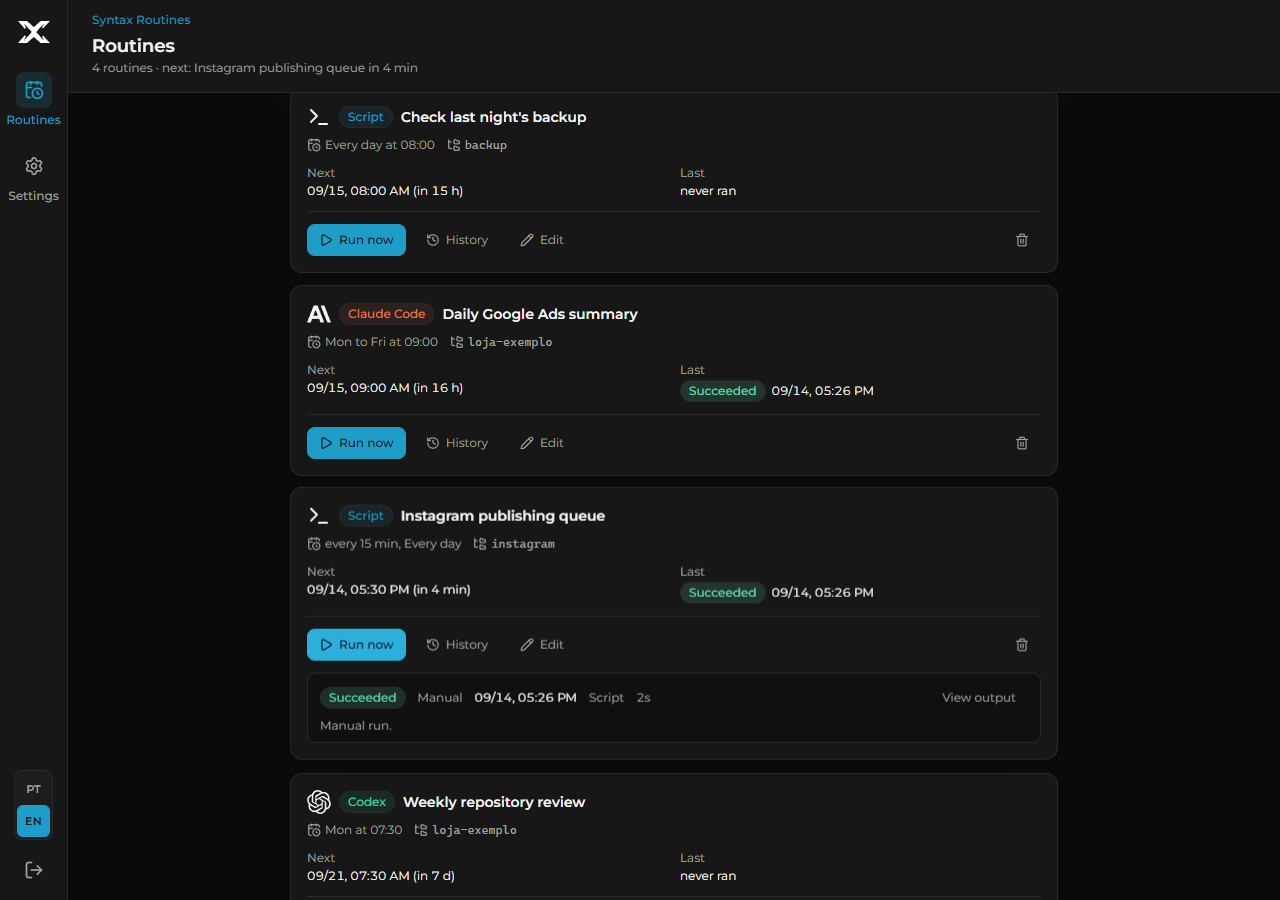
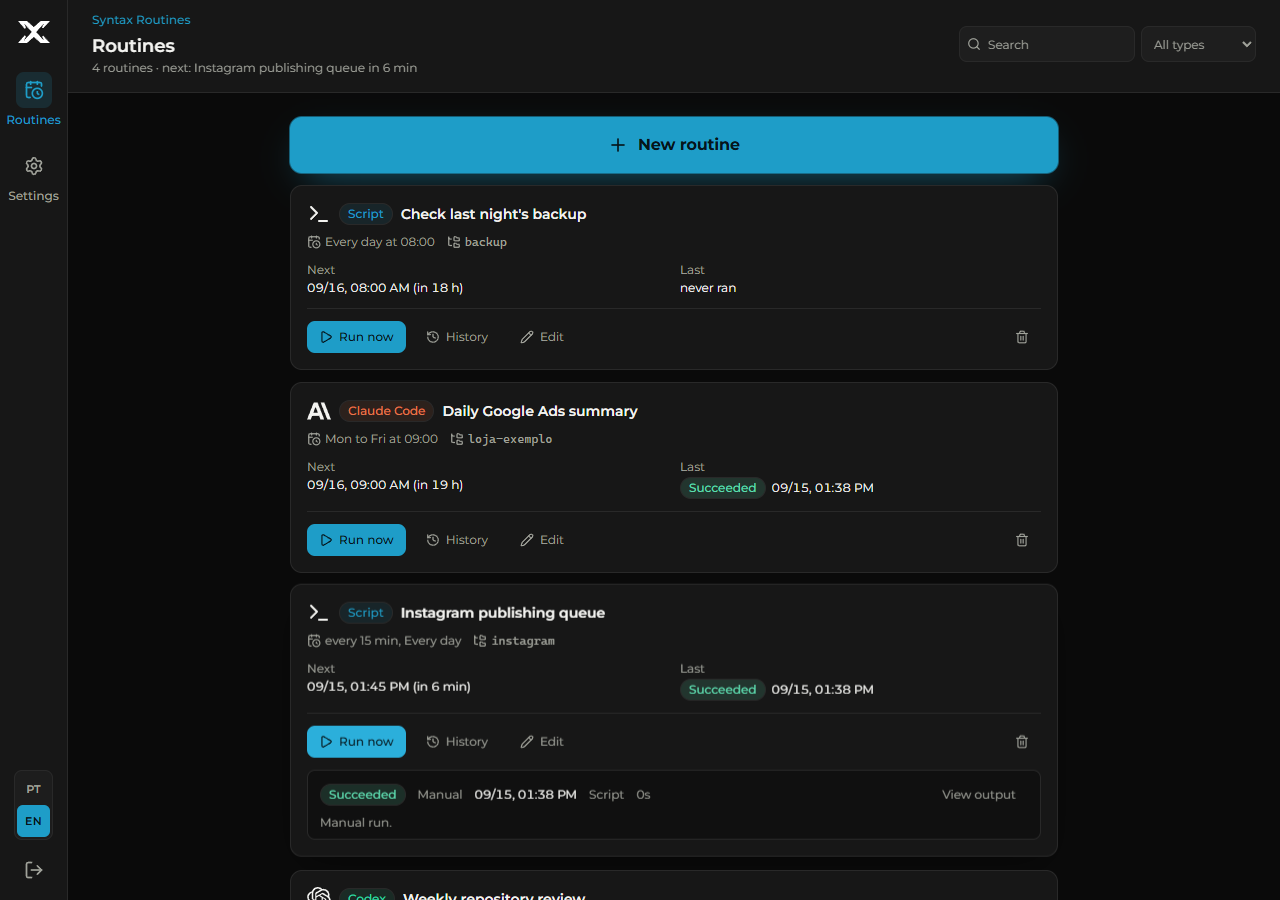
Search and type filter on Routines; retry failure alerts for up to 24 h
The Routines header gets a discreet search by name (accent and case
insensitive) and a filter by Claude Code, Codex or Script, with the
shown/total count and a Clear filter button. Covered by the e2e smoke test.

A failure alert that cannot be sent is now retried n² minutes after the
failure (1, 4, 9... up to 22.8 h) instead of three times in five minutes,
so an internet outage of a few hours delays the alert instead of losing
it. The "server not found" reason also says to check the internet.

diff --git a/client/src/pages/RoutinesPage.tsx b/client/src/pages/RoutinesPage.tsx
@@ -1,5 +1,6 @@
 import { useCallback, useEffect, useState } from "react";
-import { AlertTriangle, CalendarClock, FolderTree, History as HistoryIcon, Pencil, Play, Plus, Square, Trash2 } from "lucide-react";
+import type { ChangeEvent } from "react";
+import { AlertTriangle, CalendarClock, FolderTree, History as HistoryIcon, Pencil, Play, Plus, Search, Square, Trash2 } from "lucide-react";
 
 import { ProviderMark } from "../components/Logo";
 import { PageHeader } from "../components/PageHeader";
@@ -15,6 +16,23 @@ import type { AgentKind, ExecutorKind, RoutineDto, RunDto, SettingsResponse, Sta
 const IDLE_POLL_MS = 5000;
 const ACTIVE_POLL_MS = 2000;
 const AGENT_TONE: Record<ExecutorKind, string> = { CLAUDE: "claude", CODEX: "codex", SCRIPT: "script" };
+const KIND_OPTIONS: ExecutorKind[] = ["CLAUDE", "CODEX", "SCRIPT"];
+
+type KindFilter = ExecutorKind | "";
+
+/** Busca sem acento nem caixa: "instagram" acha "Instagram SyntaxLab: fila", "conferencia" acha "Conferência". */
+function fold(text: string): string {
+  return text
+    .normalize("NFD")
+    .replace(/[\u0300-\u036f]/g, "")
+    .toLowerCase();
+}
+
+export function matchesFilter(routine: Pick<RoutineDto, "name" | "agentKind">, query: string, kind: KindFilter): boolean {
+  if (kind && routine.agentKind !== kind) return false;
+  const needle = fold(query.trim());
+  return needle === "" || fold(routine.name).includes(needle);
+}
 
 export function RoutinesPage({ onOpenSettings }: { onOpenSettings: () => void }) {
   const { m, language } = useI18n();
@@ -26,6 +44,8 @@ export function RoutinesPage({ onOpenSettings }: { onOpenSettings: () => void })
   const [actionError, setActionError] = useState<string | null>(null);
   const [editing, setEditing] = useState<{ routine: RoutineDto | null } | null>(null);
   const [outputRunId, setOutputRunId] = useState<number | null>(null);
+  const [query, setQuery] = useState("");
+  const [kind, setKind] = useState<KindFilter>("");
 
   const load = useCallback(async () => {
     try {
@@ -87,9 +107,23 @@ export function RoutinesPage({ onOpenSettings }: { onOpenSettings: () => void })
     : [];
   const hasRoot = Boolean(meta?.settings.rootDirectory);
 
+  // O filtro so muda o que aparece: contagem do subtitulo, polling e proxima execucao seguem olhando todas.
+  const isFiltering = query.trim() !== "" || kind !== "";
+  const visible = routines?.filter((routine) => matchesFilter(routine, query, kind)) ?? [];
+  function clearFilter() {
+    setQuery("");
+    setKind("");
+  }
+
   return (
     <div className="flex h-full flex-col">
-      <PageHeader title={m.navRoutines} subtitle={subtitle} />
+      <PageHeader
+        title={m.navRoutines}
+        subtitle={subtitle}
+        actions={
+          routines !== null && routines.length > 0 ? <RoutineFilter query={query} kind={kind} onQuery={setQuery} onKind={setKind} /> : undefined
+        }
+      />
 
       <div className="flex-1 overflow-y-auto p-3 pb-24 md:p-6 md:pb-6">
         <div className="mx-auto max-w-3xl space-y-3">
@@ -139,7 +173,15 @@ export function RoutinesPage({ onOpenSettings }: { onOpenSettings: () => void })
             <EmptyState hasRoot={hasRoot} onOpenSettings={onOpenSettings} />
           ) : (
             <div className="stagger space-y-3">
-              {routines.map((routine) => (
+              {isFiltering && (
+                <p role="status" className="flex items-center justify-between gap-2 px-1 text-xs text-[var(--color-fg-subtle)]">
+                  <span>{m.filterCount(visible.length, routines.length)}</span>
+                  <Button size="sm" variant="ghost" onClick={clearFilter}>
+                    {m.clearFilter}
+                  </Button>
+                </p>
+              )}
+              {visible.map((routine) => (
                 <div key={routine.id}>
                   <RoutineCard
                     routine={routine}
@@ -172,6 +214,52 @@ export function RoutinesPage({ onOpenSettings }: { onOpenSettings: () => void })
         />
       )}
       <RunOutputModal runId={outputRunId} onClose={() => setOutputRunId(null)} />
+    </div>
+  );
+}
+
+/** Busca por nome e tipo, no canto do cabecalho: discreto, some quando nao ha rotina para filtrar. */
+function RoutineFilter({
+  query,
+  kind,
+  onQuery,
+  onKind
+}: {
+  query: string;
+  kind: KindFilter;
+  onQuery: (value: string) => void;
+  onKind: (value: KindFilter) => void;
+}) {
+  const { m } = useI18n();
+  const f = useFormat();
+  const field =
+    "h-8 rounded-[var(--radius-md)] border border-[var(--color-border)] bg-[var(--color-surface-2)]/70 text-xs text-[var(--color-fg)] outline-none focus:border-[var(--color-primary)]";
+  return (
+    <div className="flex items-center gap-1.5">
+      <label className="relative">
+        <span className="sr-only">{m.searchRoutines}</span>
+        <Search aria-hidden className="pointer-events-none absolute left-2 top-1/2 size-3.5 -translate-y-1/2 text-[var(--color-fg-subtle)]" />
+        <input
+          type="search"
+          value={query}
+          onChange={(event: ChangeEvent<HTMLInputElement>) => onQuery(event.target.value)}
+          placeholder={m.searchPlaceholder}
+          className={cn(field, "w-36 pl-7 pr-2 placeholder:text-[var(--color-fg-subtle)] sm:w-44")}
+        />
+      </label>
+      <select
+        aria-label={m.filterByType}
+        value={kind}
+        onChange={(event: ChangeEvent<HTMLSelectElement>) => onKind(event.target.value as KindFilter)}
+        className={cn(field, "px-2", kind === "" && "text-[var(--color-fg-muted)]")}
+      >
+        <option value="">{m.allTypes}</option>
+        {KIND_OPTIONS.map((option) => (
+          <option key={option} value={option}>
+            {f.agentLabel[option]}
+          </option>
+        ))}
+      </select>
     </div>
   );
 }

diff --git a/server/src/scheduler.test.ts b/server/src/scheduler.test.ts
@@ -674,7 +674,7 @@ describe("aviso por e-mail", () => {
     expect(fake.sent).toHaveLength(1);
   });
 
-  it("envio recusado tenta de novo so depois do backoff e desiste na terceira", async () => {
+  it("envio recusado tenta de novo em n² minutos, sobrevive a horas sem internet e desiste no fim das 24 h", async () => {
     const id = createRoutine(db, scriptInput(), at(1, 0));
     writeSettings(db, { notifyEmail: "dono@example.com" });
     const fake = createFakeMailer();
@@ -682,7 +682,7 @@ describe("aviso por e-mail", () => {
     clock = at(14, 10);
     const runId = failedRun(id, at(14, 10));
 
-    fake.state.failNext = 3;
+    fake.state.failNext = NOTIFY_MAX_ATTEMPTS;
     expect(await scheduler.notifyFailures()).toBe(0);
     expect(notifyState(runId)).toEqual({ notifiedAt: null, notifyAttempts: 1 });
 
@@ -694,13 +694,44 @@ describe("aviso por e-mail", () => {
     expect(await scheduler.notifyFailures()).toBe(0);
     expect(notifyState(runId)).toMatchObject({ notifyAttempts: 2 });
 
-    // Terceira a partir de +4 min; depois dela, desiste.
-    clock = at(14, 14);
-    expect(await scheduler.notifyFailures()).toBe(0);
-    expect(notifyState(runId)).toMatchObject({ notifyAttempts: NOTIFY_MAX_ATTEMPTS });
-    clock = at(14, 30);
+    // Dai em diante, a tentativa n vem n² minutos depois da falha, ate a ultima ainda dentro das 24 h.
+    for (let attempt = 2; attempt < NOTIFY_MAX_ATTEMPTS; attempt += 1) {
+      clock = at(14, 10) + attempt * attempt * MIN - 1;
+      expect(await scheduler.notifyFailures()).toBe(0);
+      expect(notifyState(runId)).toMatchObject({ notifyAttempts: attempt });
+      clock = at(14, 10) + attempt * attempt * MIN;
+      expect(await scheduler.notifyFailures()).toBe(0);
+      expect(notifyState(runId)).toMatchObject({ notifyAttempts: attempt + 1 });
+    }
+    expect(at(14, 10) + (NOTIFY_MAX_ATTEMPTS - 1) ** 2 * MIN).toBeLessThan(at(14, 10) + NOTIFY_WINDOW_MS);
+    clock = at(14, 10) + NOTIFY_WINDOW_MS + MIN;
     expect(await scheduler.notifyFailures()).toBe(0);
     expect(fake.sent).toHaveLength(0);
+  });
+
+  it("aviso preso por uma queda de internet de 4 h sai quando a conexao volta", async () => {
+    const id = createRoutine(db, scriptInput(), at(1, 0));
+    writeSettings(db, { notifyEmail: "dono@example.com" });
+    const fake = createFakeMailer();
+    const { scheduler } = newScheduler(db, { mailer: fake.mailer });
+    const runId = failedRun(id, at(14, 10));
+
+    // Falha as 10:00 e sem internet ate 14:00: as 16 tentativas desse periodo (0, 1, 4, ... 225 min) falham.
+    fake.state.failNext = 16;
+    for (let attempt = 0; attempt < 16; attempt += 1) {
+      clock = at(14, 10) + attempt * attempt * MIN;
+      expect(await scheduler.notifyFailures()).toBe(0);
+    }
+    expect(notifyState(runId)).toMatchObject({ notifiedAt: null, notifyAttempts: 16 });
+
+    // A 17ª cai as 14:16, ja com internet: o aviso sai e nao repete.
+    clock = at(14, 10) + 256 * MIN;
+    expect(await scheduler.notifyFailures()).toBe(1);
+    expect(fake.sent).toHaveLength(1);
+    expect(notifyState(runId)).toMatchObject({ notifiedAt: clock, notifyAttempts: 16 });
+    clock = at(14, 10) + 289 * MIN;
+    expect(await scheduler.notifyFailures()).toBe(0);
+    expect(fake.sent).toHaveLength(1);
   });
 
   it("o tick avisa a falha que o proprio tick produziu (diretorio fora da pasta mae)", async () => {

diff --git a/server/src/i18n.ts b/server/src/i18n.ts
@@ -50,7 +50,7 @@ const pt = {
   mailNotConfigured: "E-mail de envio não configurado: abra Configurar e-mail em Ajustes.",
   mailFailAuth: "O servidor recusou o e-mail ou a senha. No Gmail, use uma senha de app, não a senha da conta.",
   mailFailConnection: "Não foi possível conectar ao servidor. Confira o endereço, a porta e a internet.",
-  mailFailNotFound: "Servidor de e-mail não encontrado. Confira o endereço.",
+  mailFailNotFound: "Servidor de e-mail não encontrado. Confira o endereço e a internet.",
   mailFailTls: "A conexão segura com o servidor falhou. Confira a porta: 465 para SSL, 587 para STARTTLS.",
   mailFailRejected: "O servidor recusou a mensagem. Confira o e-mail que envia e o que recebe.",
   mailFailSecret: "O Windows não conseguiu cifrar ou abrir a senha salva. Configure o e-mail de novo.",
@@ -159,7 +159,7 @@ const en: Messages = {
   mailNotConfigured: "Sending e-mail is not configured: open Configure e-mail in Settings.",
   mailFailAuth: "The server rejected the e-mail or the password. On Gmail, use an app password, not the account password.",
   mailFailConnection: "Could not connect to the server. Check the address, the port and the internet connection.",
-  mailFailNotFound: "E-mail server not found. Check the address.",
+  mailFailNotFound: "E-mail server not found. Check the address and the internet connection.",
   mailFailTls: "The secure connection to the server failed. Check the port: 465 for SSL, 587 for STARTTLS.",
   mailFailRejected: "The server refused the message. Check the sender and the recipient e-mails.",
   mailFailSecret: "Windows could not encrypt or open the saved password. Configure the e-mail again.",

diff --git a/client/src/i18n.tsx b/client/src/i18n.tsx
@@ -51,6 +51,12 @@ const pt = {
   noRoutinesYet: "Nenhuma rotina ainda",
   routineCount: (count: number) => `${count} ${count === 1 ? "rotina" : "rotinas"}`,
   nextIs: (name: string, when: string) => ` · próxima: ${name} ${when}`,
+  searchRoutines: "Buscar pelo nome",
+  searchPlaceholder: "Buscar",
+  filterByType: "Filtrar por tipo",
+  allTypes: "Todos os tipos",
+  filterCount: (shown: number, total: number) => `${shown} de ${total} rotinas`,
+  clearFilter: "Limpar filtro",
   newRoutine: "Nova rotina",
   limitNotice: (agent: string, until: string) =>
     `${agent} está no limite de uso${until}. Rotinas com troca automática rodam no outro agente; as demais esperam.`,
@@ -275,6 +281,12 @@ const en: Messages = {
   noRoutinesYet: "No routines yet",
   routineCount: (count: number) => `${count} ${count === 1 ? "routine" : "routines"}`,
   nextIs: (name: string, when: string) => ` · next: ${name} ${when}`,
+  searchRoutines: "Search by name",
+  searchPlaceholder: "Search",
+  filterByType: "Filter by type",
+  allTypes: "All types",
+  filterCount: (shown: number, total: number) => `${shown} of ${total} routines`,
+  clearFilter: "Clear filter",
   newRoutine: "New routine",
   limitNotice: (agent: string, until: string) =>
     `${agent} is at its usage limit${until}. Routines with automatic switch run on the other agent; the rest wait.`,

diff --git a/server/src/scheduler.ts b/server/src/scheduler.ts
@@ -25,7 +25,11 @@ const RESULT_MAX_CHARS = 20_000;
 const ERROR_MAX_CHARS = 8_000;
 /** Falha com mais de 24 h nao gera aviso: cadastrar o e-mail depois nao pode disparar uma avalanche de historico. */
 export const NOTIFY_WINDOW_MS = 24 * 60 * 60_000;
-export const NOTIFY_MAX_ATTEMPTS = 3;
+/**
+ * Envio recusado tenta de novo n² minutos depois da falha (1, 4, 9, 16... ate 22,8 h): uma queda de internet de
+ * algumas horas atrasa o aviso em vez de perde-lo. A 38ª tentativa ja cairia fora da janela de 24 h.
+ */
+export const NOTIFY_MAX_ATTEMPTS = 38;
 const DEFAULT_PANEL_URL = "http://127.0.0.1:4090/";
 
 const REASON_KEY = { limit: "reasonLimit", transient: "reasonTransient", fatal: "reasonFatal" } as const;

diff --git a/CHANGELOG.md b/CHANGELOG.md
@@ -16,11 +16,19 @@ commit on `main`.
   of the sidebar and in Settings. The choice is kept in the browser and in Settings; the API answers
   in the panel's language (`Accept-Language`), and run notes and alert e-mails follow Settings.
   Dictionaries are typed against each other (`client/src/i18n.tsx`, `server/src/i18n.ts`).
+- **Search and type filter on the Routines header**: by name (accent and case insensitive) and by
+  Claude Code, Codex or Script, with the shown/total count and a Clear filter button.
 - Landing page at [routines.syntaxlab.com.br](https://routines.syntaxlab.com.br) (Portuguese, with
   English at `/en/`); source under `site/`.
 - Banner, screenshots with demo data (`scripts/screenshots.mjs`, `--lang en`), Open Graph images in
   Portuguese and English (`scripts/render-og.mjs`), `SUPPORT.md` and this changelog, preparing the
   repository to go public. README in English with a Brazilian Portuguese version.
+
+### Changed
+
+- Failure alerts that could not be sent are retried n² minutes after the failure (1, 4, 9... up to
+  22.8 h) instead of three times in five minutes: an internet outage of a few hours delays the
+  alert instead of losing it. The "server not found" reason now also says to check the internet.
 
 ## 0.1.0 · 2026-09-14
 

diff --git a/README.pt-BR.md b/README.pt-BR.md
@@ -53,8 +53,10 @@ suporte com prazo; veja [SUPPORT.md](SUPPORT.md).
   esgotado, diretório fora da pasta mãe, app encerrado no meio) gera um e-mail com a rotina, o
   erro e o link do painel. Sucesso não avisa. A conta que envia é configurada num modal em Ajustes
   (Gmail com senha de app, ou qualquer servidor SMTP), testada ao salvar, com um selo que diz
-  Conectado ou por que falhou.
-- **Histórico e log** de cada execução no painel e pelo CLI, com retenção de 30 dias.
+  Conectado ou por que falhou. Aviso que não conseguiu sair (internet fora, por exemplo) é
+  tentado de novo por até 24 h: a queda atrasa o aviso em vez de perdê-lo.
+- **Histórico e log** de cada execução no painel e pelo CLI, com retenção de 30 dias. Com muitas
+  rotinas, o cabeçalho tem busca pelo nome e filtro por tipo.
 - **Português ou inglês.** Um seletor discreto na tela de login e no pé da barra lateral troca o
   painel inteiro; a escolha vale também para as notas das execuções e para o e-mail de aviso.
 - **Um agente cuida disso por você.** O CLI e a skill deixam o Claude Code ou o Codex consultar,

diff --git a/README.md b/README.md
@@ -57,8 +57,10 @@ no support channel with a deadline; see [SUPPORT.md](SUPPORT.md).
   directory outside the root folder, app closed mid-run) produces an e-mail with the routine,
   the error and the panel link. Success stays quiet. The sending account is set up in a Settings
   dialog (Gmail with an app password, or any SMTP server), tested on save, with a badge that says
-  Connected or why it failed.
-- **History and log** for every run, in the panel and through the CLI, kept for 30 days.
+  Connected or why it failed. An alert that cannot be sent (the internet is down, say) is retried
+  for up to 24 h, so an outage delays it instead of losing it.
+- **History and log** for every run, in the panel and through the CLI, kept for 30 days. With many
+  routines, the header has a search by name and a filter by type.
 - **English or Portuguese.** A discreet selector on the sign-in screen and at the bottom of the
   sidebar switches the whole panel; the choice also applies to run notes and alert e-mails.
 - **An agent looks after it for you.** The CLI and the skill let Claude Code or Codex read,

diff --git a/AGENTS.md b/AGENTS.md
@@ -59,7 +59,9 @@ None of these commands touches `data/`, calls the real Claude or Codex, or sends
     scheduler. A new CLI command also goes into `skills/*/references/cli.md`, or `npm run skills:check`
     fails.
 14. **E-mail is best-effort and never blocks the queue:** the `notifyFailures` pass runs after dispatch,
-    only for `FAILED` runs of the last 24 h, with 3 attempts. The sending account comes from Settings
+    only for `FAILED` runs of the last 24 h, retrying n² minutes after the failure (1, 4, 9... up to
+    22.8 h, `NOTIFY_MAX_ATTEMPTS`) so an internet outage of hours delays the alert instead of losing
+    it. The sending account comes from Settings
     (`PUT /api/settings/mail`, tested with `verify()` before anything is written) or, without one, from
     `.env` (`process.loadEnvFile` in `index.ts`). The SMTP password saved from the panel exists only
     encrypted with DPAPI (`server/src/secret-store.ts`, key `smtp_pass_dpapi`) and never leaves the
